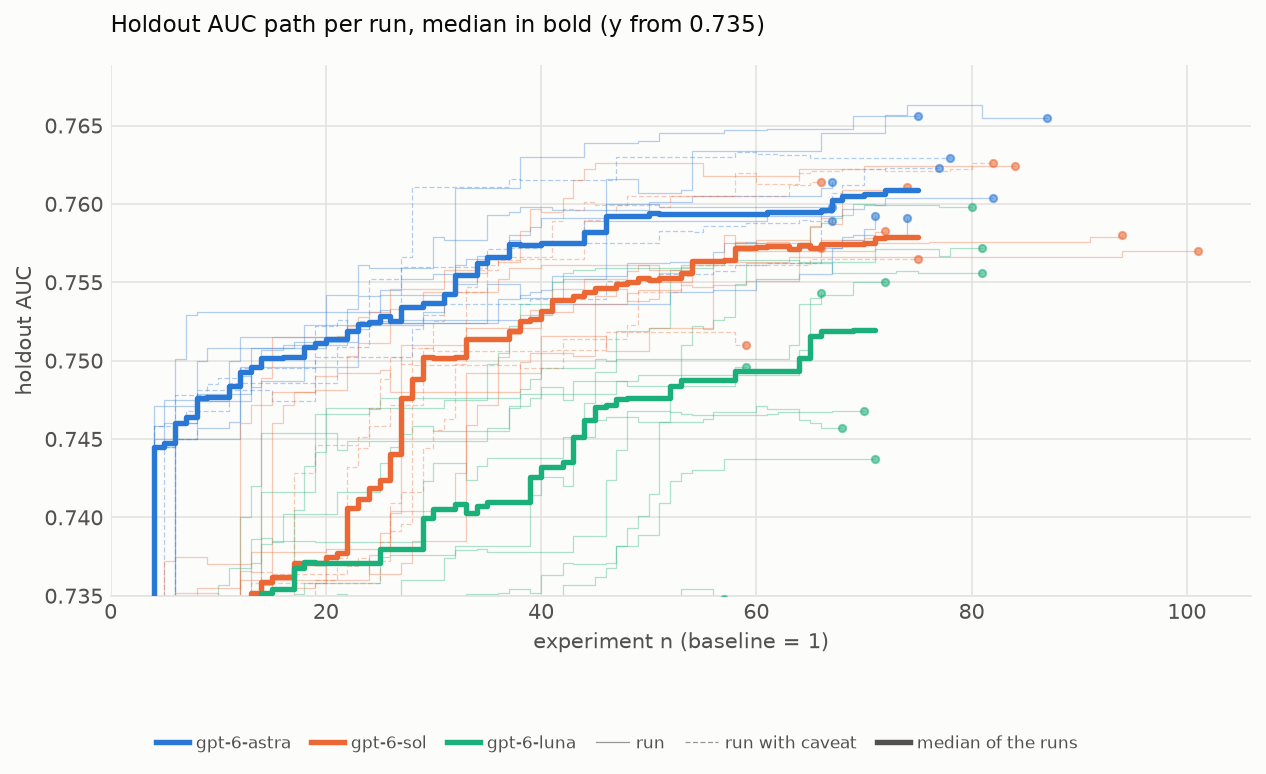
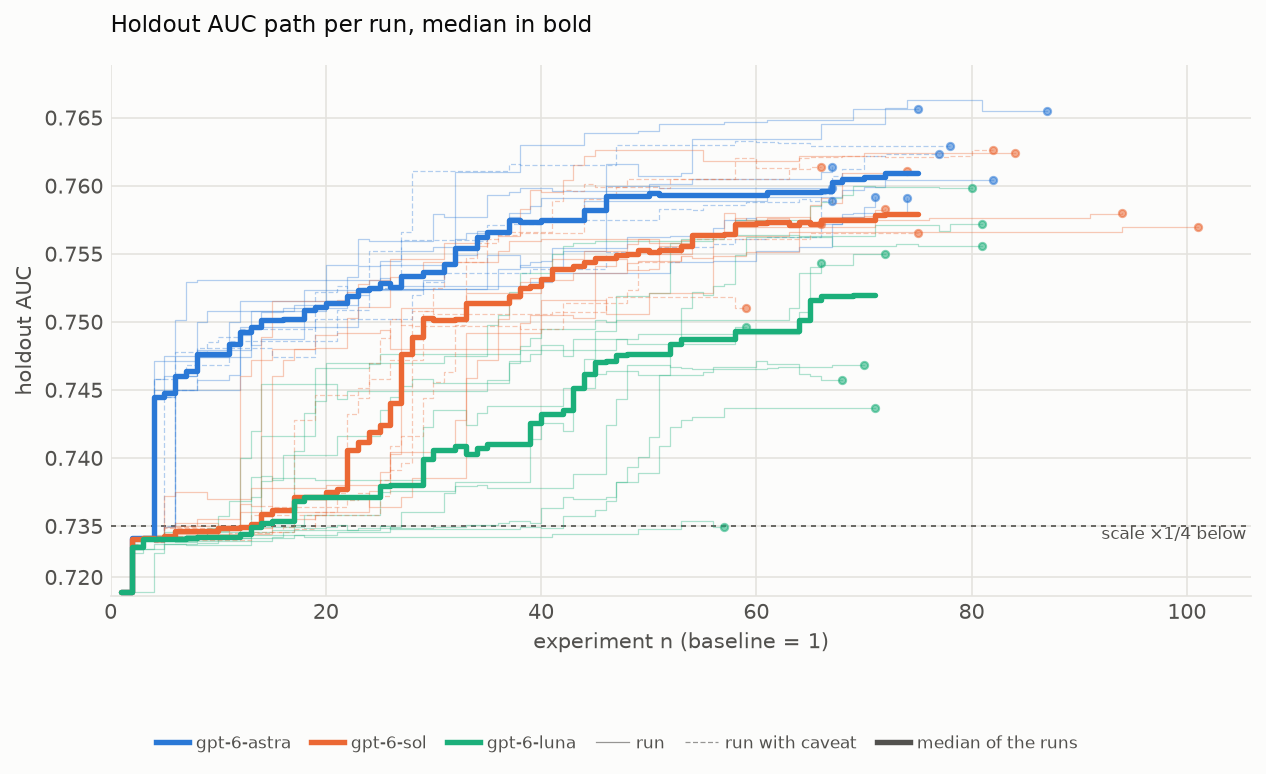
Focus path plot: compress the y axis below 0.735 instead of cutting it off
The baseline and the first steps of every run are visible again: below
0.735 the y scale is squeezed 4x (piecewise-linear), above it is unchanged;
a dashed line marks the break.

diff --git a/tools/plot_holdout_auc.py b/tools/plot_holdout_auc.py
@@ -29,7 +29,8 @@ run-multi/SUMMARY/holdout_auc_path_bands.png - one panel: per model the median
   path and a shaded 10th-90th percentile band, no individual runs.
 
 run-multi/SUMMARY/holdout_auc_path_focus.png - one panel: all runs faded, the
-  median path per model in bold, y axis cropped to the part where runs differ.
+  median path per model in bold, y axis compressed (FOCUS_YSQUEEZE x) below
+  FOCUS_YBREAK so the part where runs differ gets most of the height.
 
 Usage:
     tools/plot_holdout_auc.py
@@ -57,7 +58,8 @@ MODEL_SLOT = {"gpt-6-astra": 0, "gpt-6-sol": 1, "gpt-6-luna": 2, "gpt-5.6-luna":
 SURFACE, INK, INK2, GRID, RANGE = "#fcfcfb", "#0b0b0b", "#52514e", "#e4e3df", "#d9d8d3"
 MIN_N_STATS = 5  # interval and percentiles only from this many runs up
 MIN_N_PATH = 5  # median / percentile paths only where at least this many runs are still going
-FOCUS_YMIN = 0.735  # bottom of the y axis of the focus path plot
+FOCUS_YBREAK = 0.735  # focus path plot: below this the y axis is compressed ...
+FOCUS_YSQUEEZE = 4  # ... by this factor
 XLIM = None  # fixed holdout AUC range of the strip plot, e.g. (0.74, 0.77); None: the runs' range
 RUN_MULTI = Path(__file__).resolve().parent.parent / "run-multi"
 OUT_DIR = RUN_MULTI / "SUMMARY"
@@ -332,8 +334,20 @@ def path_focus(runs, colour):
     ax.set_ylabel("holdout AUC", color=INK2)
     ax.grid(color=GRID, lw=0.8)
     ax.set_xlim(left=0)
-    ax.set_ylim(bottom=FOCUS_YMIN)
-    style(ax, f"Holdout AUC path per run, median in bold (y from {FOCUS_YMIN})")
+    # piecewise-linear y scale: full resolution above FOCUS_YBREAK, squeezed below it
+    b, k = FOCUS_YBREAK, FOCUS_YSQUEEZE
+    ax.set_yscale("function", functions=(
+        lambda y: np.where(y >= b, y, b + (y - b) / k),
+        lambda u: np.where(u >= b, u, b + (u - b) * k)))
+    lo = min(min(step_series(r["dir"])[~np.isnan(step_series(r["dir"]))]) for r in runs)
+    ax.set_ylim(bottom=lo - 0.001)
+    ticks = [t for t in np.arange(0.70, 0.80, 0.005) if t >= lo - 0.001 and t <= ax.get_ylim()[1]]
+    # below the break only every 0.01, and none right under it (labels would collide)
+    ax.set_yticks([t for t in ticks if t >= b - 1e-9 or (round(t * 1000) % 10 == 0 and b - t > 0.008)])
+    ax.yaxis.set_major_formatter(plt.FormatStrFormatter("%.3f"))
+    ax.axhline(b, color=INK2, lw=0.8, ls=(0, (3, 3)), zorder=1)
+    ax.text(ax.get_xlim()[1], b, f"scale \u00d71/{k} below ", color=INK2, fontsize=8, ha="right", va="top")
+    style(ax, "Holdout AUC path per run, median in bold")
     legend = [Line2D([], [], color=colour[m], lw=2.6, label=m) for m in models] + [
         Line2D([], [], color=INK2, lw=0.6, alpha=0.6, label="run"),
         Line2D([], [], color=INK2, lw=0.6, alpha=0.6, ls=(0, (4, 2)), label="run with caveat"),
